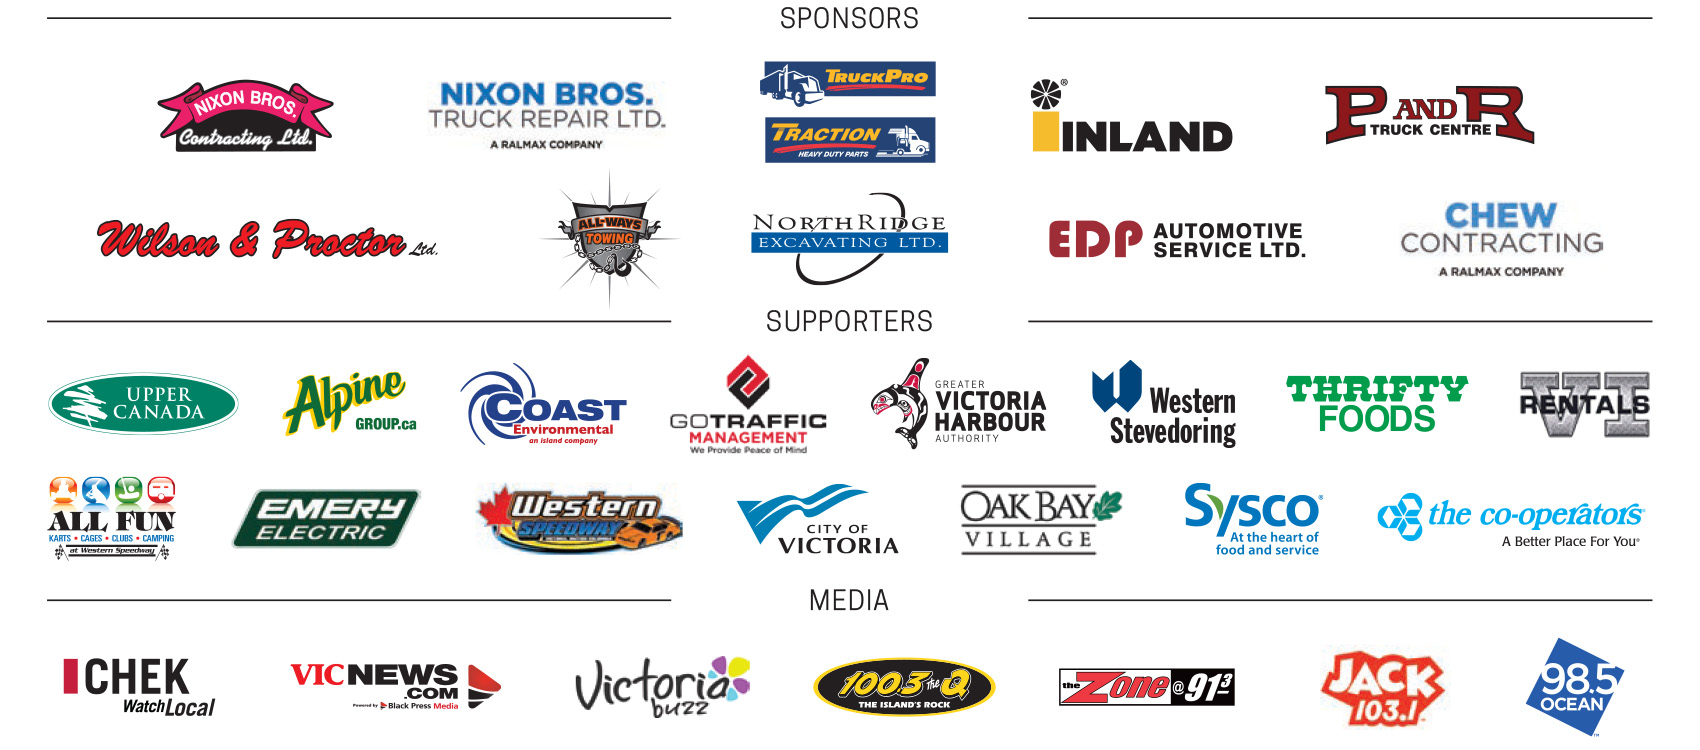
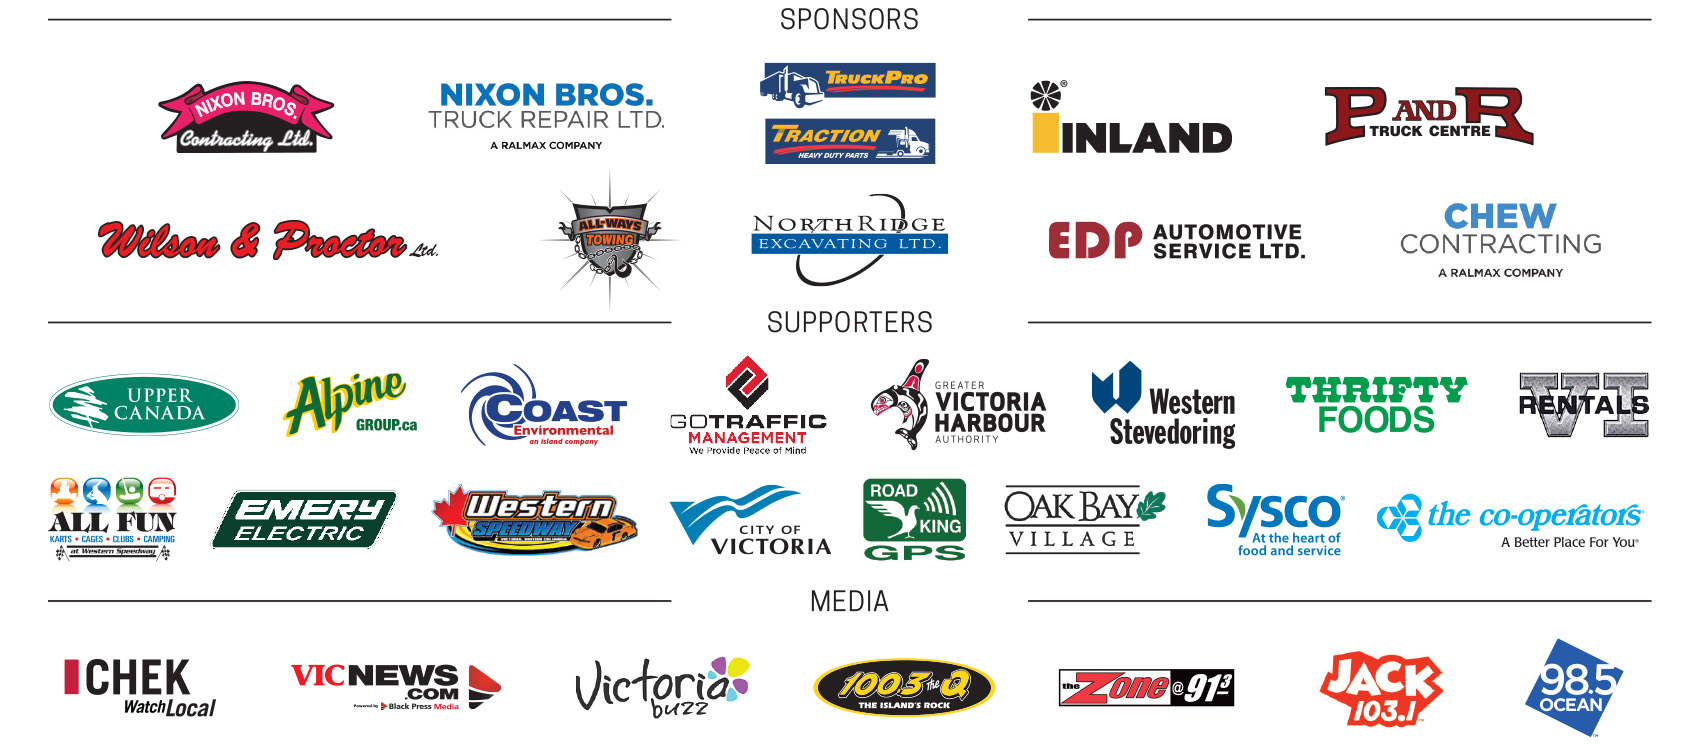
Convoy Edits
Last minute changes to text, links...gps, news and sponsor image

diff --git a/trucklightconvoyinfo.html b/trucklightconvoyinfo.html
@@ -104,9 +104,6 @@
 		<section class="row">
 			<div class="col-sm-12 center">
 				<h3>Food Donations</h3>
-				<p>We are creating lists of food donation locations for before the event and the evening of the event as well as some great light
-					up events happening along the route of our convoy. Check back for more information as the date draws closer. We look forward to
-					your support in brightening up our communities with lights, food donations and cheering crowds as we roll past!</p>
 				<p>In honor of the hard work the convoy participants have invested to create this festive event please consider supporting one of
 					these local food banks with a donation. We are collecting food along the route or you can donate online anytime. Please add "Truck
 					Convoy" in the dedication to your donation to refer to the event.<br><strong>Please click on the charity of your choice, every $5 helps!</strong></p>
@@ -315,7 +312,7 @@
 	<section>
 		<div class="col-sm-4 center">
 			<h4>Road King GPS</h4>
-			<p><a href="#"><img src="images/convoy/roadking.jpg"></a></p>
+			<p><a href="https://ieoa-live.com" target="_blank"><img src="images/convoy/roadking.jpg"></a></p>
  			<p>Track the convoy progress courtesy of RoadKing GPS! Click on the logo to see our first and last truck on the route and get an idea of when we will be in your neighborhood<br> (Current link will become available closer to the convoy)</p><br>
 		</div>
 		<div class="col-sm-4 center">
@@ -383,13 +380,13 @@
 	      <p>If you are watching the convoy from home on the evening of December 7 you can watch the convoy roll by sponsored by CHEK news and Victoria Buzz. Click on the links for their broadcasts.</p>
 	    </div>
 			<div class="col-sm-4 center">
-	      <p><a href="https://www.cheknews.ca/" target="_blank"><img src="images/convoy/cheklogo.jpg"></a></p>
+	      <p><a href="https://www.facebook.com/cheknews/" target="_blank"><img src="images/convoy/cheklogo.jpg"></a></p>
 	    </div>
 	    <div class="col-sm-4 center">
-	      <p><a href="http://www.victoriabuzz.com/" target="_blank"><img src="images/convoy/vicbuzz.png"></a></p>
+	      <p><a href="https://www.facebook.com/victoriabcbuzz/" target="_blank"><img src="images/convoy/vicbuzz.png"></a></p>
 	    </div>
 			<div class="col-sm-4 center">
-	      <p><a href="#" target="_blank"><img src="images/convoy/vicnews.png"></a></p>
+	      <p><a href="https://www.facebook.com/victorianews/" target="_blank"><img src="images/convoy/vicnews.png"></a></p>
 	    </div>
 		</section>
 	</main>
